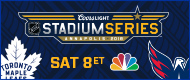
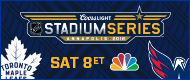
updates

Changed region(s): [[0.0789, 0.15, 0.9211, 0.475], [0.2632, 0.45, 0.7105, 0.55], [0.6842, 0.05, 0.7632, 0.25]]

diff --git a/030318/html_css/300x250/300x250.html b/030318/html_css/300x250/300x250.html
@@ -16,9 +16,7 @@
 
       <div id="animation">
 
-
   <!-- Frame 1 -->
-    
         <div id="bgdarkblue"></div>
         <div id="logolarge"></div>
 
@@ -32,10 +30,8 @@
         <div id="playersafterteams"></div> 
         <div id="teams"></div> 
         <div id="logohoriz"></div>
-        <div id="network"></div> 
-        
+        <div id="network"></div>         
       </div>        
-
     </div>
 
     <!-- Load TweenMax here -->
@@ -63,14 +59,13 @@
             tl;
 
         tl = new TimelineMax({repeat:1, repeatDelay:3});
-        // {repeat:1, repeatDelay:3}
 
         tl.add("start")
           .from($animation, 0.5, {autoAlpha:0}, "+=0.5") 
 
           
           // frame 1 build in
-          .from(logolarge, .5, {opacity:0, scale:1.5, left:50, ease: Power1.easeIn}, "start+=0.5")
+          .from(logolarge, .5, {opacity:0, scale:1.5, ease: Power1.easeIn}, "start+=0.5")
           .to(logolarge, .5, {opacity:0}, "start+=3.0")
 
 
@@ -83,7 +78,6 @@
 
           //game
           .to(bgend, .5, {opacity:1, ease: Power1.easeIn}, "start+=3.8")
-          // .to(time, .5, {opacity:1, ease: Power1.easeIn}, "start+=3.8")
           .to(playersbeforeteams, .2, {opacity:1, ease: Power1.easeIn}, "start+=3.8")
           .to(playersbeforeteams, .5, {opacity:0}, "start+=4.5")
 

diff --git a/030318/html_css/300x250/style.css b/030318/html_css/300x250/style.css
@@ -22,9 +22,6 @@ body{
 	box-sizing: border-box;
 }
 
-/* FRAME 2 */
-
-
 #network{
 	opacity: 1;
 	position: absolute;
@@ -105,14 +102,12 @@ body{
 	background: url(images/planetop.png) no-repeat;
 }
 
-
-
 #logolarge{
 	position: absolute;
 	left: 38px;
 	top: 13px;
-	width: 300px;
-	height: 250px;
+	width: 224px;
+	height: 224px;
 	background: url(images/logolarge.png) no-repeat;
 }
 

diff --git a/030318/html_css/728x90/style.css b/030318/html_css/728x90/style.css
@@ -111,7 +111,7 @@ body{
 	position: absolute;
 	left: 217px;
 	top: 6px;
-	width: 489px;
+	width: 294px;
 	height: 76px;
 	background: url(images/logolarge.png) no-repeat;
 }
